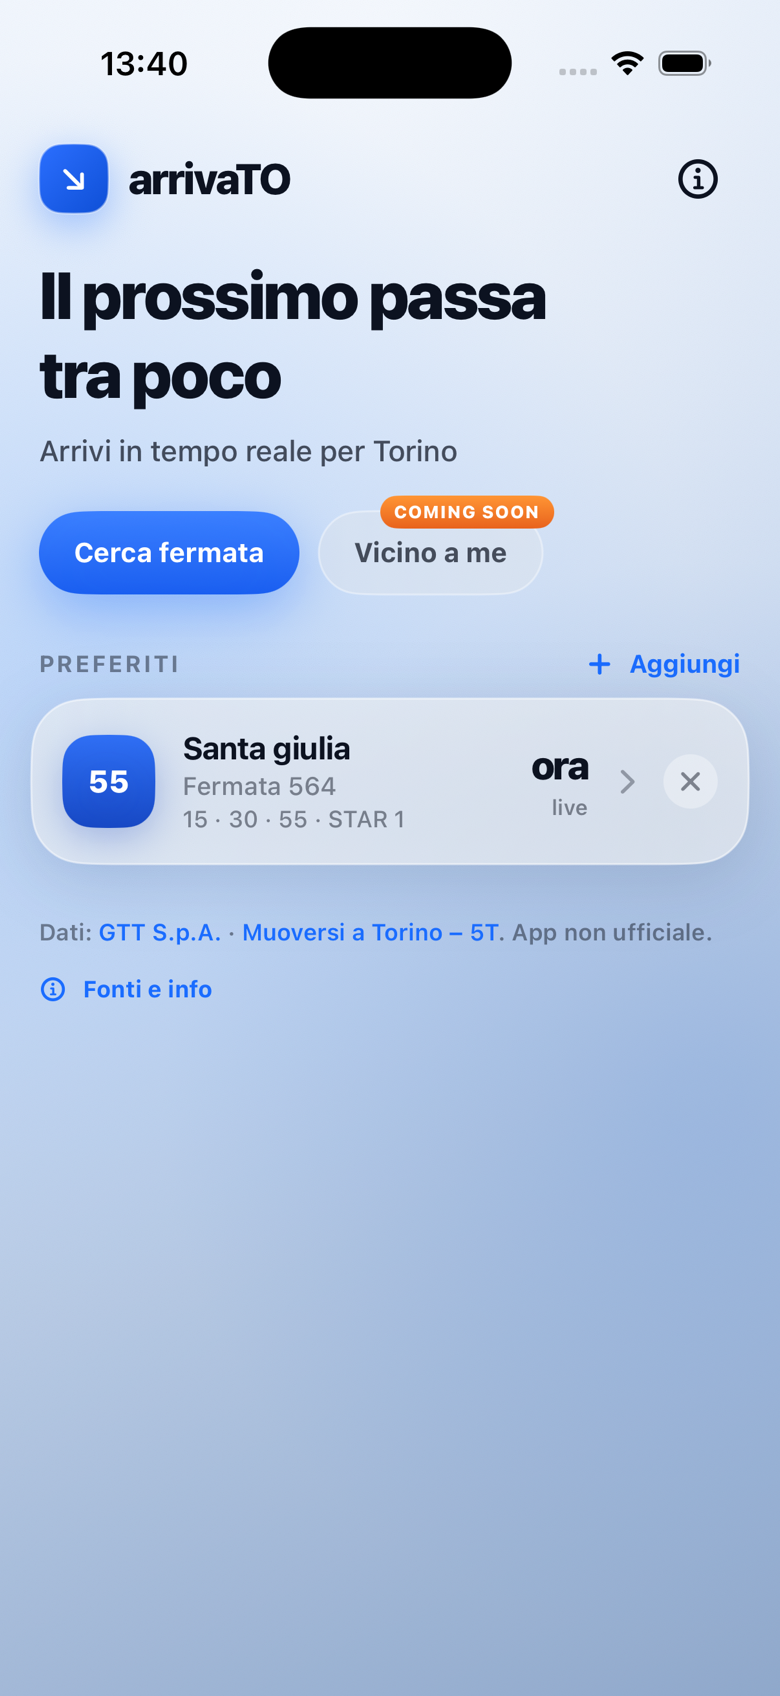
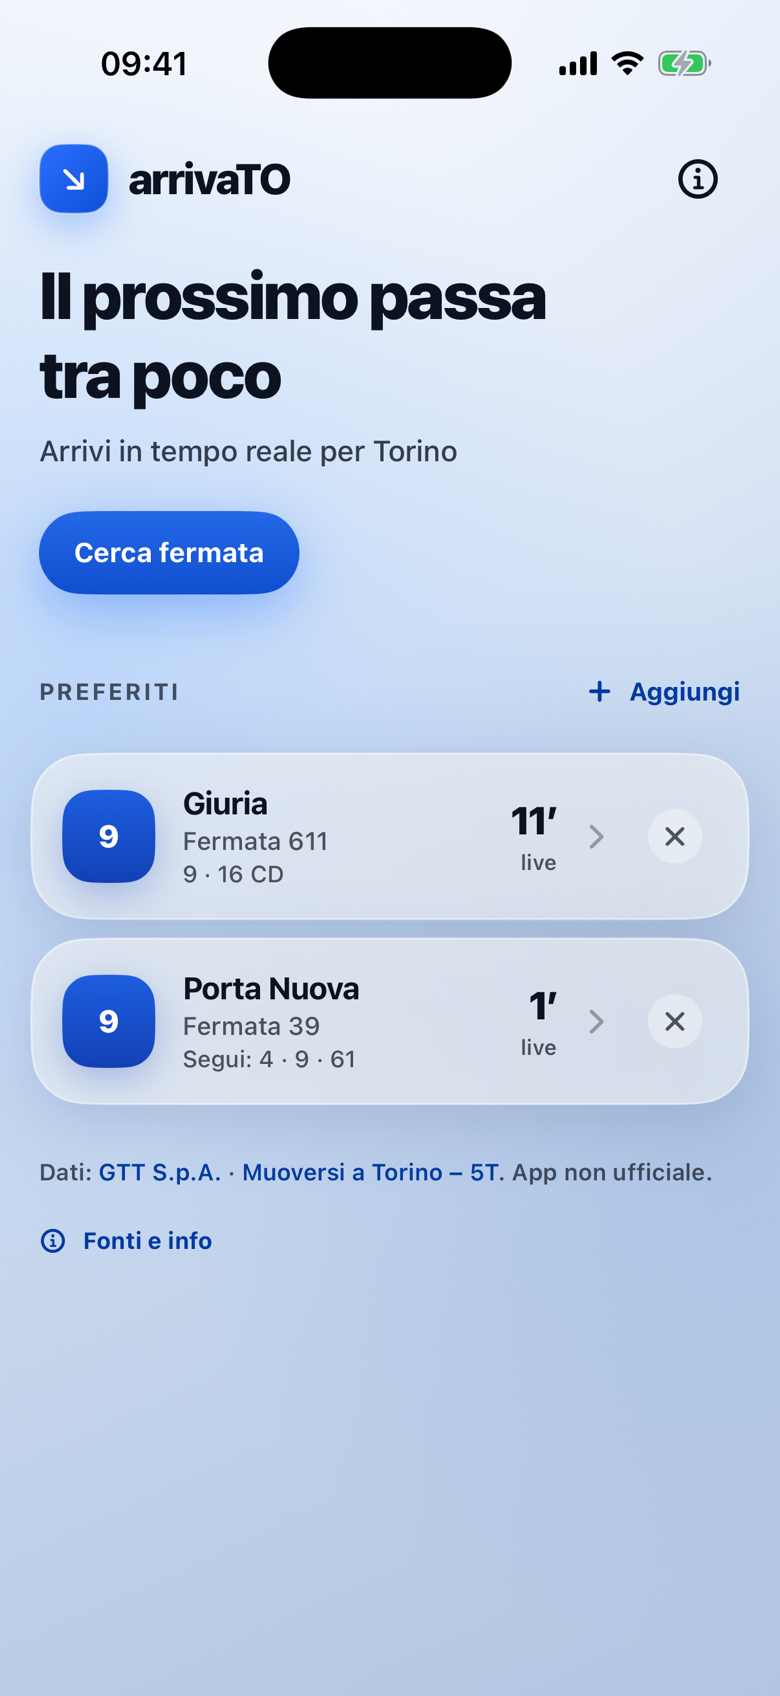
Landing più ricca: come funziona, sei funzioni, promesse, FAQ e CTA finale
- Hero: testo più chiaro e badge Gratis / Senza pubblicità / Senza account / Nessun tracciamento
- Nuove sezioni: Come funziona (3 passi), Cosa fa (6 funzioni), Le nostre promesse, Domande frequenti, invito finale
- Screenshot Home e anteprima social rifatti senza «Vicino a me», tolto dall'app
- Etichetta «L'app» centrata sopra il titolo

diff --git a/index.html b/index.html
@@ -281,6 +281,7 @@
     }
 
     .shots-head p:last-of-type { margin: 0 auto; }
+    .shots-head .kicker { max-width: none; }
 
     .shots {
       display: flex;
@@ -359,6 +360,172 @@
       transition: opacity 0.5s ease, transform 0.5s ease;
     }
     .js .fade.in { opacity: 1; transform: none; }
+
+    /* Trust chips under the CTA */
+    .trust {
+      display: flex;
+      flex-wrap: wrap;
+      gap: 8px;
+      margin-top: 16px;
+      padding: 0;
+      list-style: none;
+    }
+    .trust li {
+      display: inline-flex;
+      align-items: center;
+      gap: 6px;
+      padding: 6px 12px;
+      border-radius: 999px;
+      background: rgba(255, 255, 255, 0.7);
+      border: 1px solid rgba(255, 255, 255, 0.9);
+      font-size: 0.85rem;
+      font-weight: 700;
+      color: var(--ink);
+    }
+    .trust li::before {
+      content: "";
+      width: 7px;
+      height: 7px;
+      border-radius: 50%;
+      background: #1f9d55;
+    }
+    .section-head { max-width: 46ch; margin-bottom: 26px; }
+    .section-head h2 {
+      font-family: var(--display);
+      font-weight: 700;
+      font-size: clamp(1.3rem, 2.6vw, 1.7rem);
+      letter-spacing: -0.03em;
+      line-height: 1.2;
+      margin-bottom: 10px;
+    }
+    .section-head p { font-size: 1rem; line-height: 1.55; color: var(--muted); font-weight: 500; }
+    /* How it works */
+    .steps {
+      display: grid;
+      grid-template-columns: repeat(3, 1fr);
+      gap: 18px;
+      padding: 0;
+      list-style: none;
+      counter-reset: step;
+    }
+    .card {
+      background: rgba(255, 255, 255, 0.62);
+      border: 1px solid rgba(255, 255, 255, 0.9);
+      border-radius: 22px;
+      padding: 22px;
+      box-shadow: 0 14px 34px rgba(16, 32, 64, 0.08);
+    }
+    .steps li { counter-increment: step; }
+    .steps li::before {
+      content: counter(step);
+      display: grid;
+      place-items: center;
+      width: 34px;
+      height: 34px;
+      margin-bottom: 14px;
+      border-radius: 11px;
+      background: linear-gradient(180deg, #2b78ff, var(--accent-deep));
+      color: #fff;
+      font-family: var(--display);
+      font-weight: 700;
+    }
+    .steps h3, .features h3 {
+      font-family: var(--display);
+      font-weight: 700;
+      font-size: 1.08rem;
+      margin-bottom: 8px;
+      letter-spacing: -0.02em;
+    }
+    .steps p { font-size: 0.96rem; line-height: 1.5; color: var(--muted); font-weight: 500; }
+    /* Promise panel */
+    .promise {
+      border-radius: 28px;
+      padding: clamp(26px, 5vw, 44px);
+      background: linear-gradient(160deg, #13203a 0%, #0f2f6b 100%);
+      color: #fff;
+      display: grid;
+      grid-template-columns: 1.1fr 1fr;
+      gap: 32px;
+      align-items: center;
+      box-shadow: 0 24px 60px rgba(16, 32, 64, 0.25);
+    }
+    .promise .kicker { color: rgba(255, 255, 255, 0.7); }
+    .promise h2 {
+      font-family: var(--display);
+      font-weight: 700;
+      font-size: clamp(1.35rem, 2.8vw, 1.8rem);
+      letter-spacing: -0.03em;
+      line-height: 1.2;
+      margin-bottom: 12px;
+    }
+    .promise p { color: rgba(255, 255, 255, 0.8); line-height: 1.55; font-weight: 500; }
+    .promise a { color: #fff; font-weight: 700; }
+    .promise ul { list-style: none; padding: 0; display: grid; gap: 12px; }
+    .promise li {
+      display: flex;
+      gap: 12px;
+      align-items: flex-start;
+      font-weight: 600;
+      line-height: 1.4;
+    }
+    .promise li::before {
+      content: "✓";
+      flex: none;
+      display: grid;
+      place-items: center;
+      width: 24px;
+      height: 24px;
+      border-radius: 8px;
+      background: rgba(255, 255, 255, 0.14);
+      font-size: 0.8rem;
+    }
+    /* FAQ */
+    .faq { display: grid; gap: 10px; max-width: 760px; }
+    .faq details {
+      background: rgba(255, 255, 255, 0.62);
+      border: 1px solid rgba(255, 255, 255, 0.9);
+      border-radius: 16px;
+      padding: 0 18px;
+    }
+    .faq summary {
+      cursor: pointer;
+      list-style: none;
+      padding: 16px 28px 16px 0;
+      font-weight: 700;
+      position: relative;
+    }
+    .faq summary::-webkit-details-marker { display: none; }
+    .faq summary::after {
+      content: "+";
+      position: absolute;
+      right: 0;
+      top: 13px;
+      font-size: 1.3rem;
+      color: var(--accent-deep);
+    }
+    .faq details[open] summary::after { content: "–"; }
+    .faq details p { padding-bottom: 16px; line-height: 1.55; color: var(--muted); font-weight: 500; }
+    .faq a, .features a { color: var(--accent-deep); font-weight: 700; }
+    /* Final call to action */
+    .final {
+      text-align: center;
+      padding: 56px 0 64px;
+    }
+    .final h2 {
+      font-family: var(--display);
+      font-weight: 700;
+      font-size: clamp(1.5rem, 3.4vw, 2.2rem);
+      letter-spacing: -0.035em;
+      line-height: 1.15;
+      margin: 0 auto 12px;
+      max-width: 20ch;
+    }
+    .final p { color: var(--muted); font-weight: 500; margin-bottom: 22px; }
+    .final .cta-row { justify-content: center; }
+    @media (max-width: 900px) {
+      .steps { grid-template-columns: 1fr; }
+      .promise { grid-template-columns: 1fr; }
+    }
     @media (prefers-reduced-motion: reduce) {
       .js .fade { opacity: 1; transform: none; transition: none; }
     }
@@ -395,7 +562,7 @@
       </div>
       <h1 class="fade">Sai quando passa il bus.</h1>
       <p class="lead fade">
-        Alla fermata senza LED, o con solo il QR, spesso non sai quando arriva il bus o il tram.
+        Gli arrivi delle tue fermate GTT, in tempo reale e in un colpo d’occhio. Bus e tram di Torino, senza pubblicità e senza account.
       </p>
       <div class="fade">
         <div class="cta-row">
@@ -408,7 +575,12 @@
           >Prova su iPhone</a>
           <a class="cta cta-alt" href="android.html">Prova su Android</a>
         </div>
-        <span class="cta-note">Gratis · senza pubblicità · senza account</span>
+        <ul class="trust" aria-label="In breve">
+          <li>Gratis</li>
+          <li>Senza pubblicità</li>
+          <li>Senza account</li>
+          <li>Nessun tracciamento</li>
+        </ul>
         <span class="cta-note">iPhone (iOS 17+): apri il link TestFlight dal telefono. Android (8+): scarica l’app o entra nel test su Google Play.</span>
       </div>
     </div>
@@ -429,14 +601,14 @@
           <p class="kicker">Il problema</p>
           <h2>Alla fermata spesso non sai se il bus è vicino.</h2>
           <p>
-            Il tabellone manca. Il QR apre una pagina poco chiara. Aspetti senza sapere se conviene restare.
+            Il tabellone manca o è spento. Il QR apre una pagina lenta e poco chiara. Così aspetti senza sapere se conviene restare o andare a piedi.
           </p>
         </article>
         <article class="fade">
           <p class="kicker">La soluzione</p>
           <h2>arrivaTO mette gli arrivi sul telefono.</h2>
           <p>
-            Tieni le fermate che usi. Vedi se il prossimo passa tra poco, se è in orario o in ritardo, e ricevi un avviso a 5 minuti.
+            Apri l’app e vedi subito tra quanti minuti passa il prossimo mezzo alle tue fermate, se è in orario o in ritardo. Se vuoi, ti avvisa 5 minuti prima.
           </p>
         </article>
       </div>
@@ -444,16 +616,40 @@
 
     <section>
       <div class="wrap">
+        <div class="section-head fade">
+          <p class="kicker">Come funziona</p>
+          <h2>Pronta in meno di un minuto.</h2>
+          <p>Niente registrazione e niente configurazioni lunghe. Bastano tre passi.</p>
+        </div>
+        <ol class="steps">
+          <li class="card fade">
+            <h3>Cerca la fermata</h3>
+            <p>Per nome o con il codice palina scritto sul cartello della fermata.</p>
+          </li>
+          <li class="card fade">
+            <h3>Salvala con le tue linee</h3>
+            <p>Scegli quali linee seguire: in Home vedi solo quelle che prendi davvero.</p>
+          </li>
+          <li class="card fade">
+            <h3>Guarda e parti</h3>
+            <p>Minuti al prossimo passaggio, ritardo o anticipo e, se vuoi, un avviso 5 minuti prima.</p>
+          </li>
+        </ol>
+      </div>
+    </section>
+
+    <section>
+      <div class="wrap">
         <div class="shots-head fade">
           <p class="kicker">L’app</p>
-          <h2>Home, fermata e ricerca.</h2>
-          <p>Schermate reali dall’iPhone, stessa misura.</p>
+          <h2>Tutto in tre schermate.</h2>
+          <p>Schermate reali dall’iPhone: la Home con i preferiti, la fermata con gli arrivi, la ricerca.</p>
         </div>
         <div class="shots">
           <figure class="fade">
             <div class="phone">
               <div class="screen">
-                <img src="shot-home.png" width="780" height="1696" alt="Home con la fermata preferita Santa Giulia e il prossimo passaggio della linea 55" />
+                <img src="shot-home.png" width="780" height="1696" alt="Home con le fermate preferite Giuria e Porta Nuova e i minuti al prossimo passaggio" />
               </div>
             </div>
             <figcaption>Home</figcaption>
@@ -469,7 +665,7 @@
           <figure class="fade">
             <div class="phone">
               <div class="screen">
-                <img src="shot-search.png" width="780" height="1695" alt="Ricerca fermata" />
+                <img src="shot-search.png" width="780" height="1695" alt="Ricerca fermata per nome o codice palina" />
               </div>
             </div>
             <figcaption>Ricerca</figcaption>
@@ -480,24 +676,106 @@
 
     <section>
       <div class="wrap">
-        <p class="kicker fade">Cosa fa</p>
-        <h2 class="features-head fade">Tre cose, ogni giorno.</h2>
+        <div class="section-head fade">
+          <p class="kicker">Cosa fa</p>
+          <h2>Poche cose, fatte bene.</h2>
+          <p>Niente mappe e menu da esplorare: solo quello che serve quando sei alla fermata.</p>
+        </div>
         <div class="features">
           <div class="fade">
             <div class="mark" aria-hidden="true"></div>
-            <h3>Preferiti</h3>
-            <p>Salva le fermate che usi davvero e le trovi subito in Home.</p>
+            <h3>Preferiti con le tue linee</h3>
+            <p>Salva le fermate che usi e scegli le linee da seguire. In Home trovi subito il prossimo mezzo.</p>
           </div>
           <div class="fade">
             <div class="mark" aria-hidden="true"></div>
-            <h3>Arrivi e ritardi</h3>
-            <p>Minuti al prossimo passaggio, con live o orario, e ritardo quando c’è.</p>
+            <h3>Live o orario, sempre chiaro</h3>
+            <p>«Live» quando il mezzo è seguito in tempo reale, «Orario» quando il dato è quello programmato.</p>
           </div>
           <div class="fade">
             <div class="mark" aria-hidden="true"></div>
-            <h3>Avviso 5′</h3>
-            <p>Attiva l’avviso sulla fermata quando mancano circa cinque minuti.</p>
+            <h3>Ritardi e anticipi</h3>
+            <p>Se il mezzo è in ritardo o in anticipo, te lo dice in minuti, senza dover fare conti.</p>
           </div>
+          <div class="fade">
+            <div class="mark" aria-hidden="true"></div>
+            <h3>Avviso 5′ prima</h3>
+            <p>Solo per la prossima corsa, oppure ogni giorno in una fascia oraria: per esempio quando esci di casa.</p>
+          </div>
+          <div class="fade">
+            <div class="mark" aria-hidden="true"></div>
+            <h3>Ricerca per codice palina</h3>
+            <p>Il numero è sul cartello della fermata: lo scrivi e la apri al volo.</p>
+          </div>
+          <div class="fade">
+            <div class="mark" aria-hidden="true"></div>
+            <h3>Accessibile</h3>
+            <p>Funziona con VoiceOver e con il testo grande di iOS, con un contrasto verificato. <a href="accessibilita.html">Dettagli</a></p>
+          </div>
+        </div>
+      </div>
+    </section>
+
+    <section>
+      <div class="wrap">
+        <div class="promise fade">
+          <div>
+            <p class="kicker">Le nostre promesse</p>
+            <h2>Un’app che ti aiuta ad aspettare, non che ti vende qualcosa.</h2>
+            <p>arrivaTO è un progetto indipendente. Non guadagna sui tuoi dati e non ti riempie di banner. <a href="privacy.html">Leggi l’informativa privacy</a></p>
+          </div>
+          <ul>
+            <li>Niente pubblicità, mai.</li>
+            <li>Niente account né registrazione.</li>
+            <li>Nessun tracciamento e nessuna raccolta della posizione.</li>
+            <li>Preferiti e impostazioni restano solo sul tuo telefono.</li>
+          </ul>
+        </div>
+      </div>
+    </section>
+
+    <section>
+      <div class="wrap">
+        <div class="section-head fade">
+          <p class="kicker">Domande frequenti</p>
+          <h2>Prima di provarla.</h2>
+        </div>
+        <div class="faq fade">
+          <details>
+            <summary>È l’app ufficiale di GTT?</summary>
+            <p>No. arrivaTO è un progetto indipendente, non affiliato né approvato da GTT S.p.A. o 5T S.r.l. Usa i dati pubblici di GTT e il servizio in tempo reale di Muoversi a Torino.</p>
+          </details>
+          <details>
+            <summary>Quanto costa?</summary>
+            <p>Niente. È gratis, senza pubblicità e senza acquisti in-app.</p>
+          </details>
+          <details>
+            <summary>Quanto sono affidabili i tempi?</summary>
+            <p>Arrivano dal servizio pubblico Muoversi a Torino. Con l’etichetta «Live» il dato viene dalla posizione del mezzo; con «Orario» è quello programmato. Se il servizio non risponde, l’app mostra gli ultimi dati scaricati, segnandoli come non aggiornati.</p>
+          </details>
+          <details>
+            <summary>C’è anche per Android?</summary>
+            <p>Sì, è in fase di test. Trovi le istruzioni nella <a href="android.html">pagina Android</a>.</p>
+          </details>
+          <details>
+            <summary>Posso comprare i biglietti?</summary>
+            <p>No, arrivaTO non vende biglietti. Per quelli usa i canali ufficiali GTT.</p>
+          </details>
+          <details>
+            <summary>Ho trovato un problema, a chi scrivo?</summary>
+            <p>Scrivi a <a href="mailto:hello@flbanca.it">hello@flbanca.it</a>, indicando se puoi fermata, linea e ora. Altre risposte nella pagina <a href="supporto.html">Assistenza</a>.</p>
+          </details>
+        </div>
+      </div>
+    </section>
+
+    <section class="final">
+      <div class="wrap fade">
+        <h2>La prossima volta, alla fermata lo sai già.</h2>
+        <p>Gratis, per iPhone e Android.</p>
+        <div class="cta-row">
+          <a class="cta" href="https://testflight.apple.com/join/tJv2m7fG" target="_blank" rel="noopener noreferrer" data-testflight-url="https://testflight.apple.com/join/tJv2m7fG">Prova su iPhone</a>
+          <a class="cta cta-alt" href="android.html">Prova su Android</a>
         </div>
       </div>
     </section>
